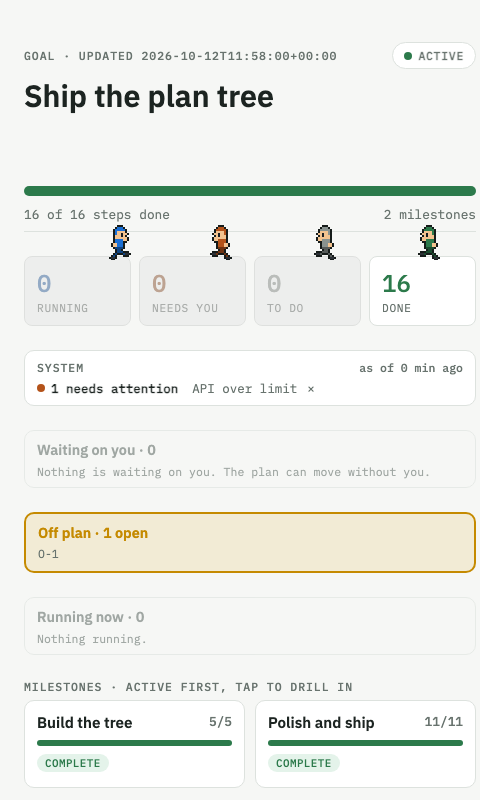
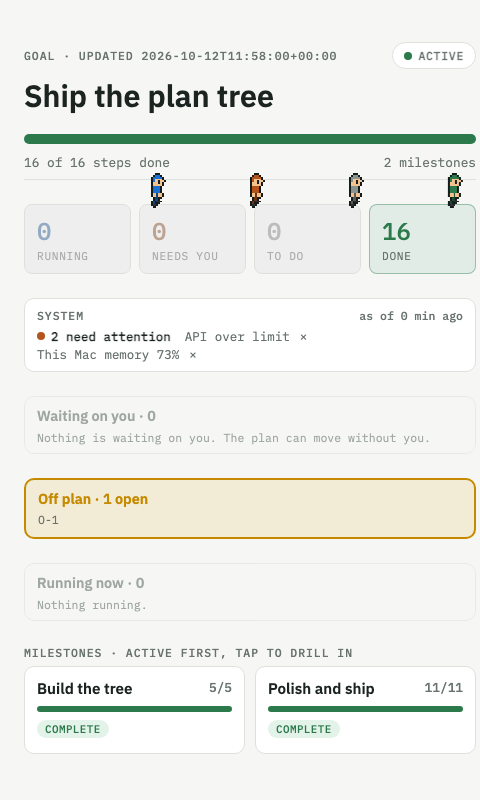
README: characters section with animated GIF and fresh page and pane screenshots

diff --git a/docs/FEATURES.md b/docs/FEATURES.md
@@ -60,10 +60,10 @@ The in-terminal pane has the same actions on each row: a check (mark done), an X
 </p>
 
 - **Tile characters.** Each of the four tiles (Running, Needs you, To do, Done) has one small custom pixel character, drawn by us on a 20x20 grid (no outside art). A count of 0 puts it to sleep (curled up, a drifting z) and dims the tile and the character the same way (one `--dim-o` / `--dim-f` token, fading on change); a count above 0 wakes it at full brightness. The pose comes from the same count the tile shows. Each tile recolors the same figure through a CSS variable: blue, orange, grey, green.
-- **Real frame-by-frame animation.** Every animation is a list of 20x20 string-art frames in `assets/characters-frames.js` (generated by `bun tools/charart.ts`), drawn as crisp SVG rects, played by a frame player at 6 to 10 fps. Each state has 6 to 9 main animations with props (asleep: curl, nod, nightcap and blanket, teddy, hammock, snore bubble; running: run, sprint, jog, flag, briefcase, coffee, chasing bug, skateboard, jetpack; needs you: wave, jump, point, sign, bell, megaphone, siren, phone; to do: shuffle, look, watch, clipboard, book, laptop, coffee, fishing, juggling; done: pump, thumbs, spin, trophy, popper, star, fireworks, medal, balloons) and 4 idle animations. `bun tools/charsheet.ts` draws a contact sheet of every frame (`docs/img/characters-sheet-*.png`) and two sample GIFs.
+- **Real frame-by-frame animation.** Every animation is a list of 20x20 string-art frames in `assets/characters-frames.js` (generated by `bun tools/charart.ts`), drawn as crisp SVG rects, played by a frame player at about 4 to 7 fps (65% of the drawn speed). Each state has 6 to 9 main animations with props (asleep: curl, nod, nightcap and blanket, teddy, hammock, snore bubble; running: run, sprint, jog, flag, briefcase, coffee, chasing bug, skateboard, jetpack; needs you: wave, jump, point, sign, bell, megaphone, siren, phone; to do: shuffle, look, watch, clipboard, book, laptop, coffee, fishing, juggling; done: pump, thumbs, spin, trophy, popper, star, fireworks, medal, balloons) and 4 idle animations. `bun tools/charsheet.ts` draws a contact sheet of every frame (`docs/img/characters-sheet-*.png`) and two sample GIFs.
 - **Never still.** Every state has 4 idle animations (breathing, blinking, a foot tap, a shrug and so on, 6 frames each) that the picker interleaves with the main ones, so a character waiting for its next pick is always moving. Only `prefers-reduced-motion` shows a still frame.
 - **Never one loop.** A small timer in the page swaps to another animation at random, never the same twice in a row, after a hold of 2.5 to 6 seconds. With `prefers-reduced-motion` the characters stay on one still frame. A fixed seed (`window.CHR_SEED`) makes the sequence repeatable; the screenshot scripts use one.
-- **Dancing when done.** The goal card has no character until every step is done. Then the four tile characters run out of their tiles to the goal area above the progress bar (1.2 s) and dance there, each its own routine of 11. When a new step opens they run back to their tiles. Under reduced motion they jump there and stand still.
+- **Dancing when done.** The goal card has no character until every step is done, and the Done tile is then lightly shaded green (no animation). Then the four tile characters run out of their tiles to the goal area above the progress bar (1.2 s) and dance there, each its own routine of 11. When a new step opens they run back to their tiles. Under reduced motion they jump there and stand still.
 - **The trip, frozen.** `docs/img/page-travel-1-*.png` and `page-travel-2-*.png` show the run to the goal area at 30% and 70%.
 - **Right-aligned dancers.** The dancers stand at the right end of the goal header row, just above the progress bar, on the page and in the pane. A long title runs behind them (the title is drawn above them) and, in the pane, wraps before it reaches them when it can.
 - **Characters in the pane.** The real Cockpit pane draws the same four tile characters, dimmed at 0, with the same trip to the goal card and the same dance, from the same shared script (`hooks/chars.ts` loads `assets/characters.js`). Reduced motion stops them. `bun tools/charpane.ts` takes the pictures (`shots/pane-chars-*.png`).

diff --git a/README.md b/README.md
@@ -27,6 +27,34 @@ The plan as a calm tree. Open a section to see its steps, who is working on each
   </picture>
 </p>
 
+## The characters
+
+Four small pixel characters sit in the summary tiles: Running, Needs you, To go and Done. A tile with a count of 0 goes dim and its character falls asleep; any other count wakes it. They are never still: each plays one of several hand-drawn animations, then swaps to another. When every step is done the four run up into the goal card and dance together, and the Done tile turns lightly green.
+
+<p align="center">
+  <img src="docs/img/characters-dance.gif" alt="The four characters dancing together, frame by frame" width="420">
+</p>
+
+The same characters live on the plan page and in the pane.
+
+<p align="center">
+  <picture>
+    <source media="(prefers-color-scheme: light)" srcset="docs/img/page-asleep-light.png">
+    <img src="docs/img/page-asleep-dark.png" alt="The plan page with nothing running: the Running and Needs you characters are asleep, the To do and Done characters are awake" width="260">
+  </picture>
+  <picture>
+    <source media="(prefers-color-scheme: light)" srcset="docs/img/page-done-light.png">
+    <img src="docs/img/page-done-dark.png" alt="A finished plan: the four characters dance above the progress bar and the Done tile is shaded green" width="260">
+  </picture>
+</p>
+
+<p align="center">
+  <picture>
+    <source media="(prefers-color-scheme: light)" srcset="docs/img/pane-chars-away-light.png">
+    <img src="docs/img/pane-chars-away-dark.png" alt="The Cockpit pane with a finished plan: the four characters dance in the goal card and the Done tile is lightly shaded green" width="420">
+  </picture>
+</p>
+
 ## Why you want it
 
 - **See every agent at a glance.** One pane shows who is editing, who is running tests, who is blocked and who is waiting on you.
